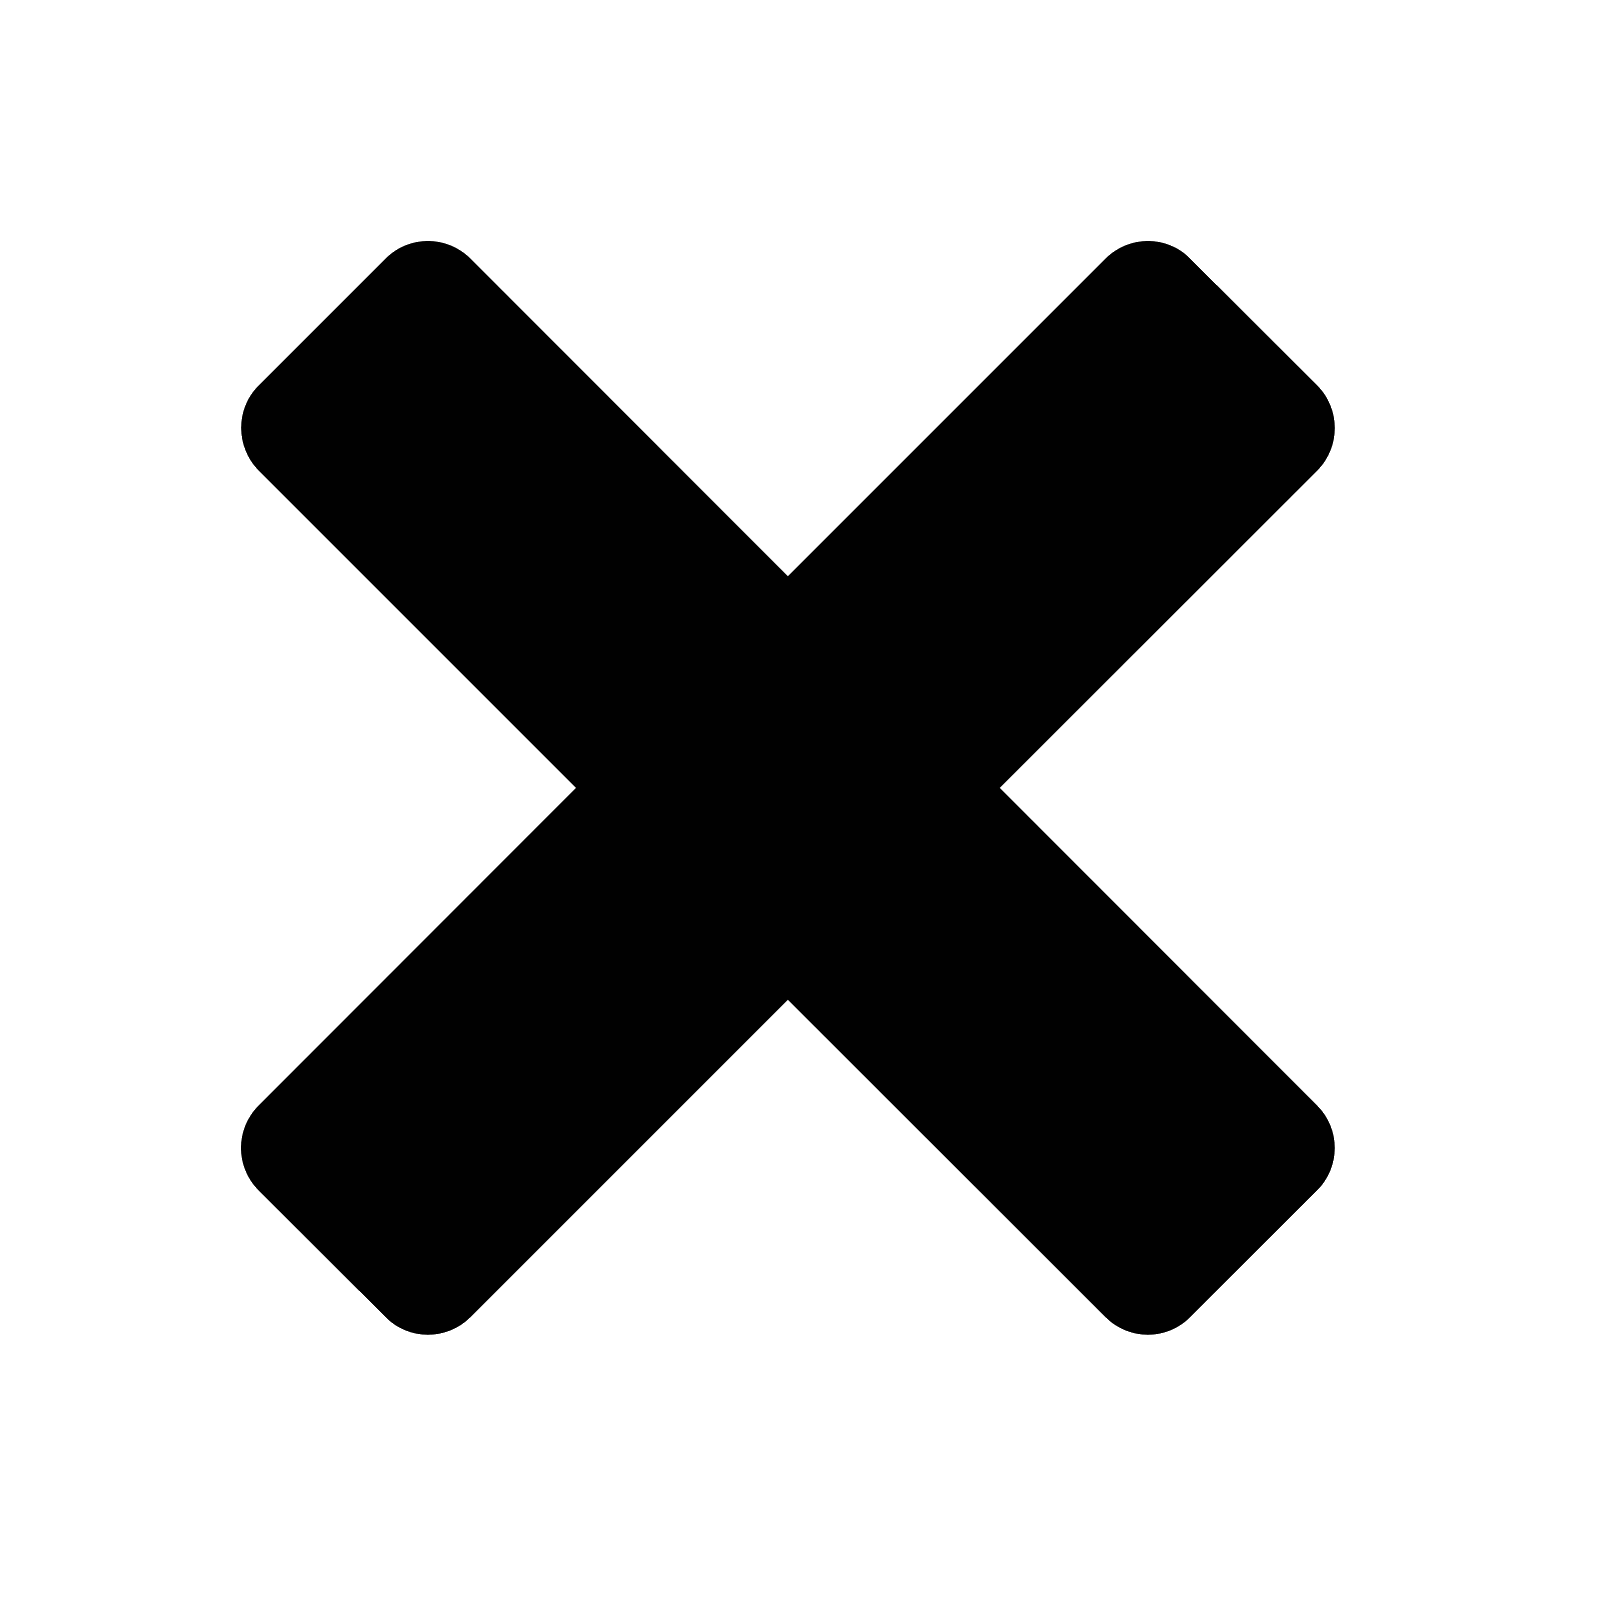
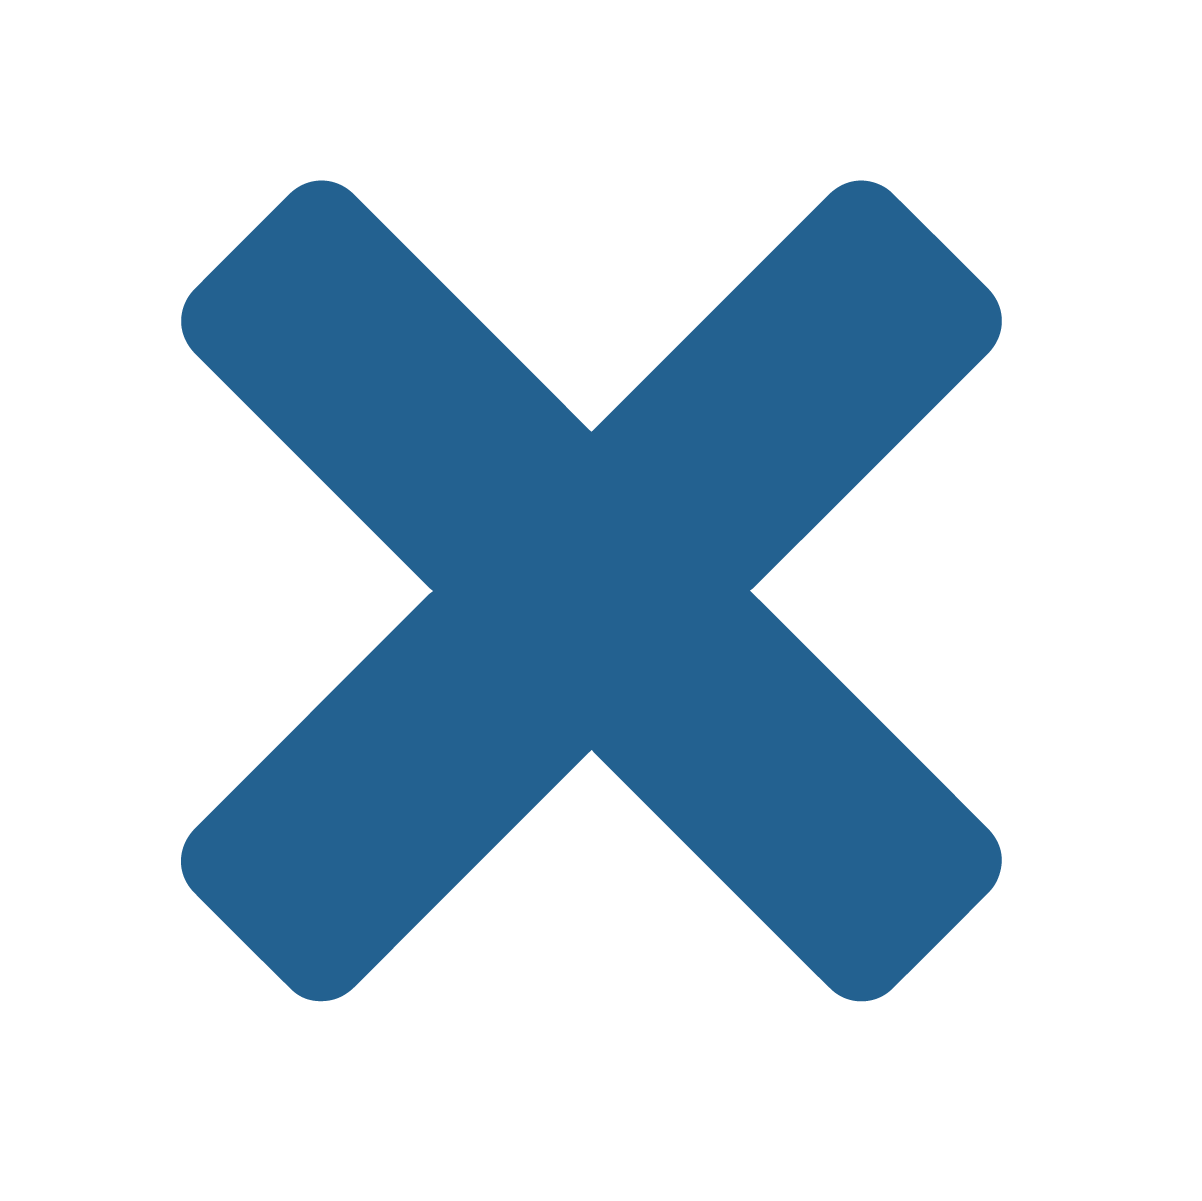
Småfix med cancel och clear

Changed region(s): [[0.1539, 0.154, 0.8311, 0.8318]]

diff --git a/diatot_dev/src/components/App.css b/diatot_dev/src/components/App.css
@@ -494,16 +494,16 @@ th, td{
 
 .cancelButton {
   font-size: 14px;
-  color: #557D9C;
-  font-weight: bold;
+  color: #043357;
+  /*font-weight: bold;*/
   height: auto;
   width: 80px;
   margin-left: 0;
-  margin-right: 94px;
+  margin-right: 93px;
   margin-top: 8px;
   margin-bottom: 0 !important;
   background-color: white;
-  box-shadow: 0 2px 7px 0 rgba(0, 0, 0, 0.3);
+  box-shadow: 0 1px 3px 0 rgba(0, 0, 0, 0.2);
   border-radius: 7px;
   padding: 2px;
   display: inline-block;
@@ -511,16 +511,16 @@ th, td{
 
 .clearButton {
   font-size: 14px;
-  color: #557D9C;
-  font-weight: bold;
+  color: #043357;
+  /*font-weight: bold;*/
   height: auto;
   width: 80px;
-  margin-left: 94px;
+  margin-left: 93px;
   margin-right: 0;
   margin-top: 12px;
   margin-bottom: 0 !important;
   background-color: white;
-  box-shadow: 0 2px 7px 0 rgba(0, 0, 0, 0.3);
+  box-shadow: 0 1px 3px 0 rgba(0, 0, 0, 0.2);
   border-radius: 7px;
   padding: 2px;
   display: inline-block;
@@ -530,6 +530,10 @@ th, td{
   margin-bottom: 320%;
   margin-left: 20%;
   -webkit-transform: rotate(-90deg);
+}
+
+.cancel {
+  margin-bottom: 3.2%;
 }
 
 /************* Help Page *************/

diff --git a/diatot_dev/src/components/newlog.js b/diatot_dev/src/components/newlog.js
@@ -2,7 +2,7 @@ import React, { Component } from 'react';
 import './App.css';
 import { Layout, Content} from 'react-mdl';
 import Log from './log/Log.js'
-import kryss from './img/kryss.png';
+import cross from './img/cross.png';
 import { NavLink } from 'react-router-dom';
 //import FirstPage from "./components/FirstPage";
 
@@ -17,7 +17,7 @@ export default class Newlog extends Component {
             <Content className="content">
               <NavLink to="mainpage" style={{textDecoration: 'none'}}>
                 <div className="cancelButton">
-                  <img className="cancel" src={kryss} height="10" alt="kryss"/>   Cancel
+                  <img className="cancel" src={cross} height="15" alt="cross"/>  Cancel
                 </div>
               </NavLink>
               <NavLink to="newlog" style={{textDecoration: 'none'}}>
